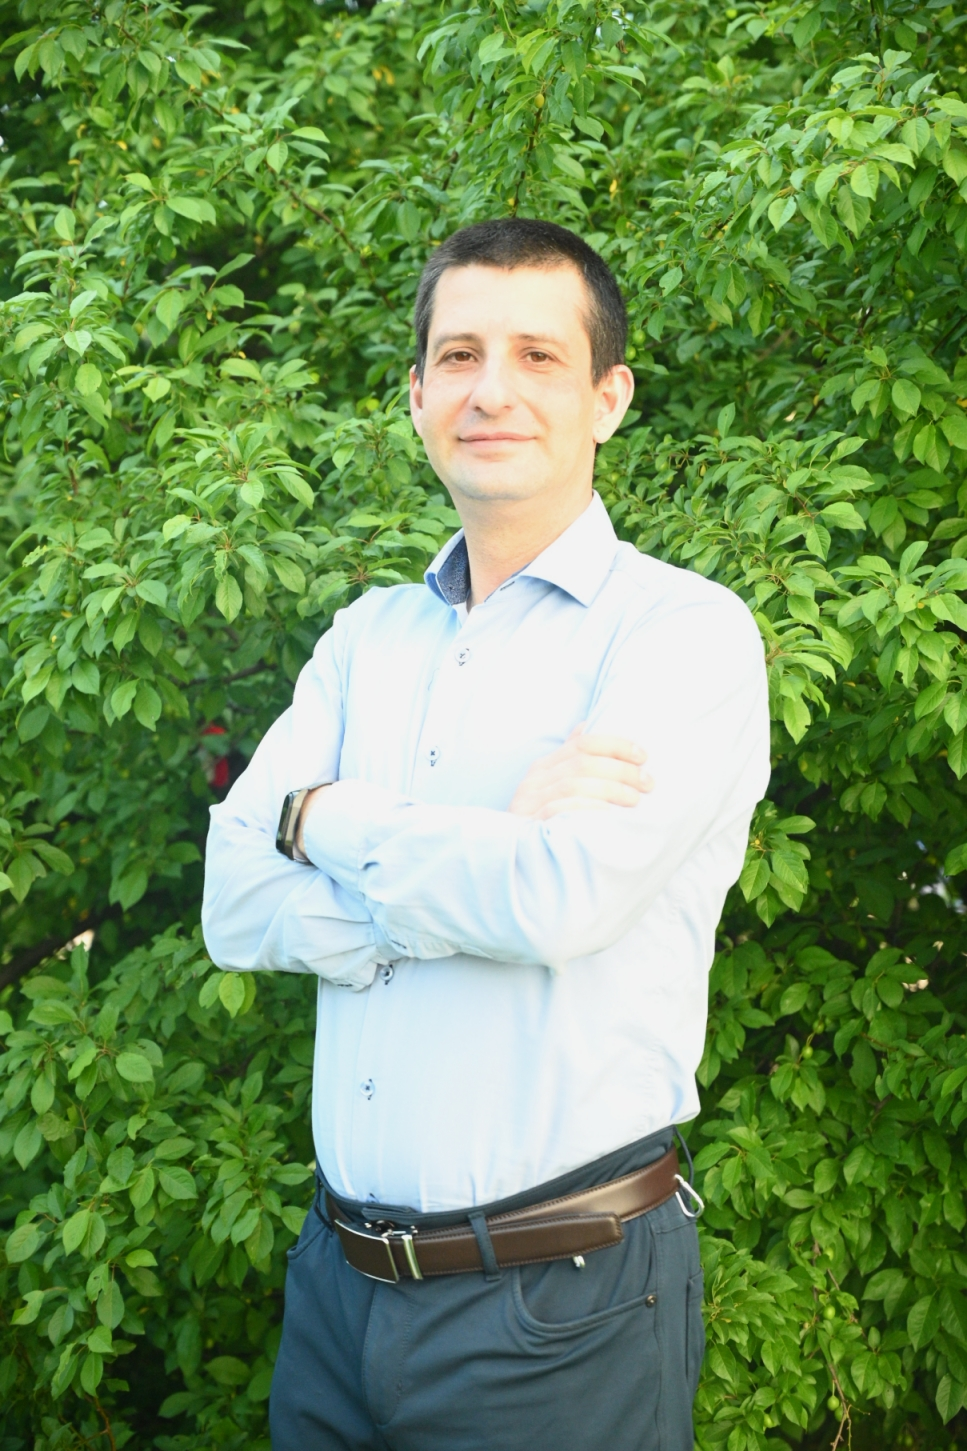
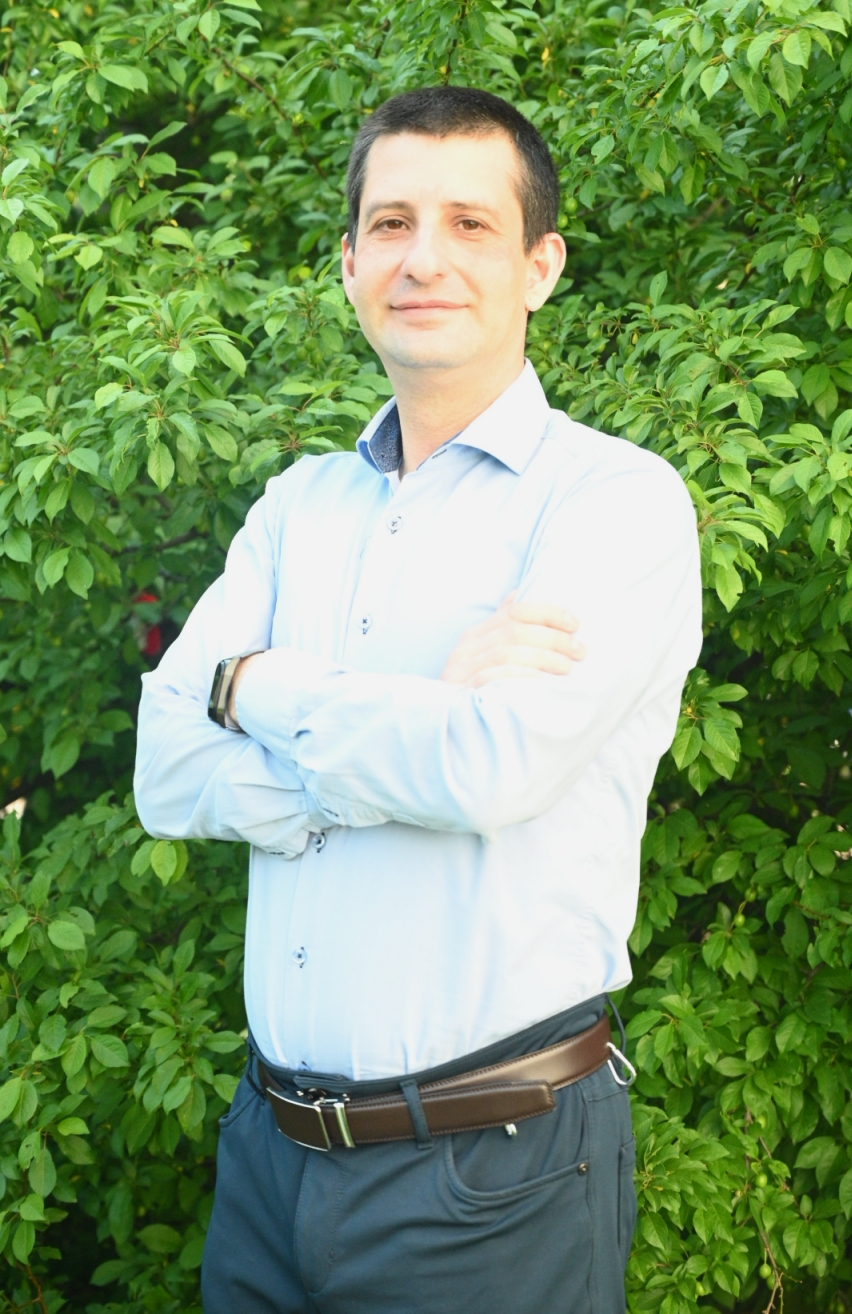
up

diff --git a/assets/css/styles.css b/assets/css/styles.css
@@ -890,7 +890,7 @@ img {
   }
 
   .home__img-1 {
-    width: 400px;
+    width: 450px;
     margin-left: 0;
   }
 
